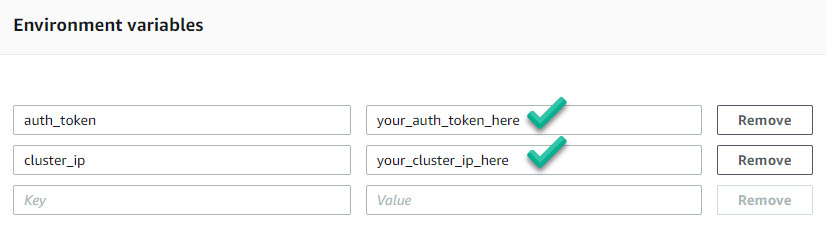
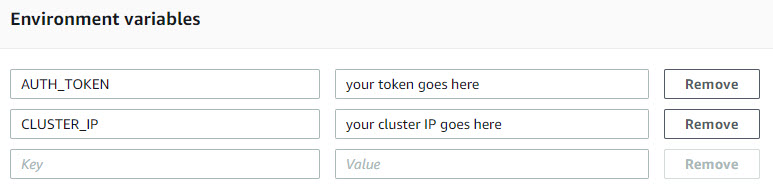
docs update
Updated the docs to reflect the capitalization of the auth / cluster vars, and also the screenshot showing it. Also, corrected a typo in the get_sla_compliance sample utterances.

diff --git a/intents/get_sla_compliance.py b/intents/get_sla_compliance.py
@@ -9,11 +9,11 @@ CLUSTER_IP = os.environ['CLUSTER_IP']
 AUTH_TOKEN = os.environ['AUTH_TOKEN']
 
 ''' Sample Utterances
-How are my SLAs doing?
-Are my SLAs in compliance?
+How are my SLAs doing
+Are my SLAs in compliance
 Read out SLA compliance summary
 Get me SLA compliance summary
-Give me SLA compliancy summary
+Give me SLA compliance summary
 How many SLAs are in compliance
 '''
 

diff --git a/docs/QUICKSTART.md b/docs/QUICKSTART.md
@@ -248,12 +248,12 @@ You can now click the **Save** button in the upper right corner of the window to
 
 Next, the function needs to know how to connect to your cluster. We feel it's better to keep static information out of the function code. 
 
-For this step, it's important to add two environment variables: `cluster_ip` and `auth_token`. This can be done by scrolling down below the Function Code area and locating the Environmental Variables area.
+For this step, it's important to add two environment variables: `CLUSTER_IP` and `AUTH_TOKEN`. This can be done by scrolling down below the Function Code area and locating the Environmental Variables area.
 
-1.  `cluster_ip`: Enter the IP address of a node in your cluster. Make sure it is reachable from the VPC network that you plan to use for Roxie. This will be covered in the next section.
-1.  `auth_token`: Enter the token created in the Generate a Rubrik API Token section.
+1.  `CLUSTER_IP`: Enter the IP address of a node in your cluster. Make sure it is reachable from the VPC network that you plan to use for Roxie. This will be covered in the next section.
+1.  `AUTH_TOKEN`: Enter the token created in the Generate a Rubrik API Token section.
 
-![Function Code for get_cluster_status](/docs/images/environmental-variables.jpg)
+![Environmental Variables for get_cluster_status](/docs/images/environmental-variables.jpg)
 
 With those values updated, you can now click the **Save** button in the upper right corner of the window to save your progress. It should change from orange to a greyed-out color upon success.
 
